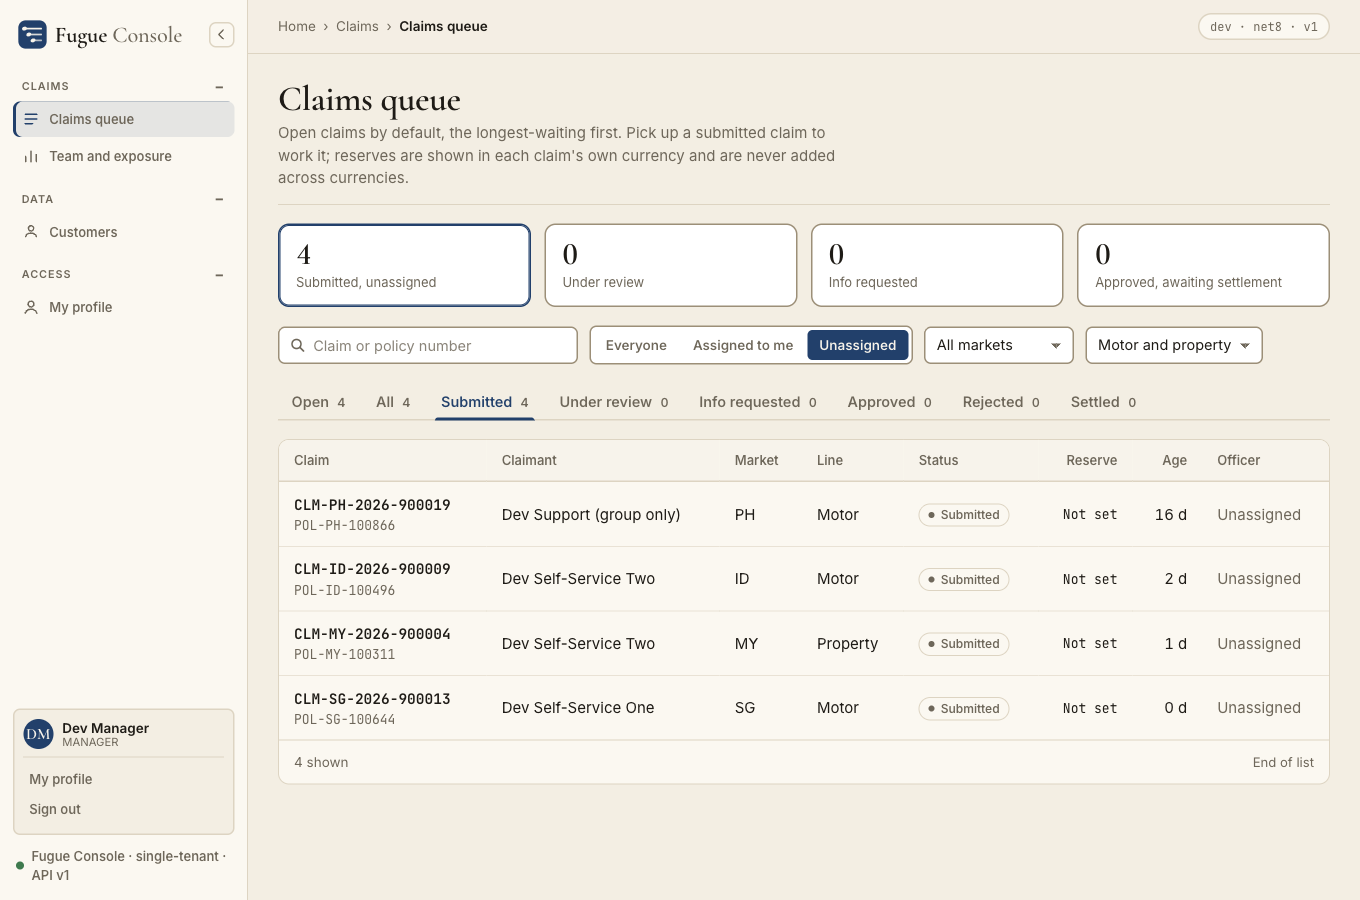
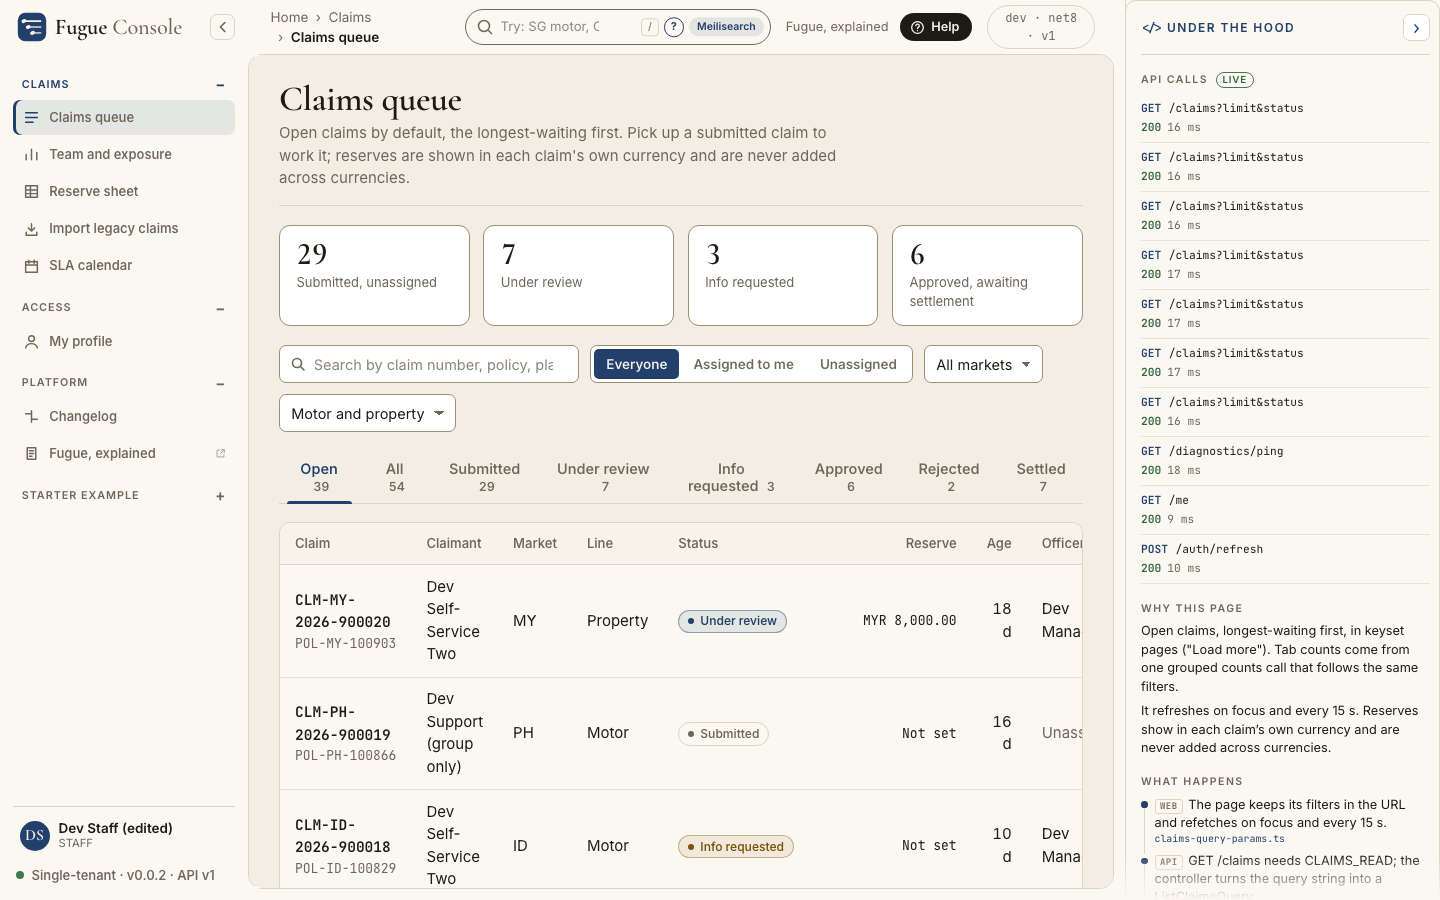
docs(readme): refresh counts, links and search wording from this lane's runs
Counts come from commands run in the lane: 858 xUnit listed, 37 arch, 388 console tests,
23 e2e listed, 127 Bruno requests. Search is keyword full-text, never hybrid. Links to
the explained page, changelog, DEMO, load testing and the legacy-sync design. Refreshed
five console screenshots headlessly against the demo stack.

Refs: D-064
Claude-Session: https://claude.ai/code/session_013M8hUMmzSgW53sxbR6rjBi

diff --git a/README.md b/README.md
@@ -6,7 +6,7 @@
 ![Angular 22](https://img.shields.io/badge/Angular-22-DD0031)
 ![PostgreSQL 17](https://img.shields.io/badge/PostgreSQL-17-336791)
 ![Docker Compose](https://img.shields.io/badge/Docker-Compose-2496ED)
-![Tests](https://img.shields.io/badge/xUnit-740%2B-brightgreen)
+![Tests](https://img.shields.io/badge/xUnit-858%20listed-brightgreen)
 ![Release](https://img.shields.io/badge/release-v0.0.2-blue)
 
 A claims platform for motor and property claims across six APAC markets (SG, MY, TH, HK, ID, PH): a .NET 8 API and one Angular console for claimants, claims officers, managers and admins. It is a take-home build, so it says plainly what it does and does not do.
@@ -48,9 +48,11 @@ Open **http://localhost:8080** (console). The API is on **:5081**, Swagger at `/
 | `self@fugue.test` | claimant | the claim that needs them ("We need one answer from you"); can answer it, report an incident, follow the claim |
 | `staff@fugue.test` | claims officer | My work: needs my action, pick up next, waiting on claimant; the claim record's next-step card; reserve sheet; SLA calendar |
 | `manager@fugue.test` | manager | To settle; Team and exposure per currency |
-| `admin@fugue.test` | admin | everything: users, the roles x permissions matrix, audit log with search, module toggles, webhooks |
+| `admin@fugue.test` | admin | everything: users (create and edit, edits guarded by If-Match), the roles x permissions matrix, audit log with search, module toggles, webhooks |
 
-**Fugue, explained:** a one-page illustrated tour of the system, readable offline in a browser: [`docs/explained/index.html`](docs/explained/index.html) (also served by the console at `/explained/`).
+**Fugue, explained:** a one-page illustrated tour of the system, readable offline in a browser: [`docs/explained/index.html`](docs/explained/index.html) (also served by the console at `/explained/`, and linked in its sidebar). The console's **Changelog** page shows the release history in the app; the file is [`CHANGELOG.md`](CHANGELOG.md).
+
+**Demo and load testing.** The presenter's walkthrough, including step 15 (the software factory, mapped to this repo), is [`docs/DEMO.md`](docs/DEMO.md). k6 smoke, load and stampede scripts with a before/after percentile comparison: [`docs/runbooks/load-testing.md`](docs/runbooks/load-testing.md). Not built, design only and parked: syncing with a legacy system, [`docs/design/legacy-sync.md`](docs/design/legacy-sync.md).
 
 Where things live: the migration catalog is [`docs/migrations/migration-catalog.md`](docs/migrations/migration-catalog.md), the release history is [`CHANGELOG.md`](CHANGELOG.md), and the step-by-step guide for a clean clone is [`docs/runbooks/00-for-reviewers.md`](docs/runbooks/00-for-reviewers.md). A curl walk-through of every guard (404, 409, 412, 428, the required Idempotency-Key) is [`docs/runbooks/11-claims.md`](docs/runbooks/11-claims.md).
 
@@ -116,7 +118,7 @@ flowchart TB
 - **Duplicate-proof submits.** `POST /claims` requires an `Idempotency-Key`; a retry replays the first response, and a reused key is 422.
 - **A transactional outbox.** State, timeline row, audit row and event commit together or not at all. Events leave through signed webhooks; a Kafka publisher is optional and off by default.
 - **An append-only audit trail.** Field-level diffs, failure rows for rejected commands, and no way to write to it through the API.
-- **Search that degrades honestly.** Meilisearch backs audit search and claim search (claim number, policy number, place, description, claimant name; typo tolerant). Claim search applies the caller's scope itself. When the engine is down the endpoint answers 503, not an empty list.
+- **Search that degrades honestly.** Keyword full-text search (Meilisearch: typo tolerance, synonyms, highlights) backs audit search and claim search (claim number, policy number, place, description, claimant name). It is keyword search, not semantic or vector search. Claim search applies the caller's scope itself. When the engine is down the endpoint answers 503, not an empty list.
 - **Excel in the console.** A reserve sheet and a claim assessment worksheet (Univer) with Save to Excel.
 - **An SLA calendar** (FullCalendar, lazy-loaded).
 - **Team and exposure, per currency.** Per officer: open load, oldest claim, decisions in 7 and 30 days, median days to decision. Exposure per market, line and currency; there is no grand total, because SGD plus IDR needs a rate and a rate date.
@@ -124,7 +126,7 @@ flowchart TB
 
 ### The console
 
-Screenshots below are captured by the Playwright suite (`cd web && npm run screenshots`).
+Screenshots below were captured headlessly (Playwright) against the running Docker stack as `staff@fugue.test` and `self@fugue.test`; the specs in `web/e2e/` write the same paths. The right-hand panel is the "Under the hood" sidebar, and the demo data carries edits made while testing.
 
 | Claims queue | Officer's claim record | Claimant's claim record |
 |---|---|---|
@@ -180,7 +182,8 @@ tests/
   pict/                 pairwise case models
 web/                    the Angular console (TanStack Query, NgRx SignalStore, generated client)
 bruno/fugue             HTTP regression collection (claims/ is the window's folder)
-perf/k6                 load scripts
+perf/k6                 k6 correctness-under-concurrency scripts (pickup race, idempotent submit)
+load/                   k6 latency scripts (smoke, load, stampede) and the percentile report
 scripts/                repo tooling and git-hook checks (scripts/spine/)
 docs/                   claims domain, architecture, ADRs, runbooks, decisions, journal
 ```
@@ -198,7 +201,7 @@ The dependency rule and the vertical slices are explained in [`docs/ARCHITECTURE
 | Validation and errors | FluentValidation, FluentResults | Typed errors become RFC 9457 problem details |
 | Persistence | EF Core (writes), Dapper (reads) | One transaction per command, ADR-006 |
 | Database | PostgreSQL 17 | `xmin` is the ETag |
-| Search | Meilisearch | Optional service; indexed from the append-only audit log and from claims |
+| Search | Meilisearch | Keyword full-text search (typo tolerance, synonyms, highlights). Optional service; indexed from the append-only audit log and from claims |
 | Events | Transactional outbox, signed webhooks | Kafka (Redpanda in compose) behind the `kafka` profile, off by default |
 | Console | Angular 22, TanStack Query, NgRx SignalStore | API client generated from the committed OpenAPI snapshot |
 | Tests | xUnit, Testcontainers, NetArchTest, Vitest, Playwright, Bruno | Details under Reference |
@@ -254,19 +257,19 @@ cd web && npm run e2e                                     # Playwright flows aga
 npm ci && (cd bruno/fugue && npx bru run --env compose)   # API regression suite against the Docker stack
 ```
 
-| Suite | Size (v0.0.2) | Runs against |
+| Suite | Count | Runs against |
 |---|---|---|
-| `Fugue.Tests` (xUnit) | about 740 cases | a real Postgres 17 (Testcontainers) or the full HTTP host, plus in-process tests of the state machine, validators and mapping |
-| `Fugue.ArchTests` (NetArchTest) | 37 fitness functions | layering, one-line controllers, every action declares a permission; baselines may only shrink |
-| Bruno | 101 requests, 123 tests (per CHANGELOG) | the Docker stack: every guard (404, 409, 412, 428, 422) over HTTP |
-| Console (Vitest) | roughly 200 tests; the exact count moves with each merge | `cd web && npm test` |
-| Console e2e (Playwright) | 20 flows in a browser, claimant to settlement | `web/e2e/` |
+| `Fugue.Tests` (xUnit) | 858 listed | a real Postgres 17 (Testcontainers) or the full HTTP host, plus in-process tests of the state machine, validators and mapping |
+| `Fugue.ArchTests` (NetArchTest) | 37 passed | layering, one-line controllers, every action declares a permission; baselines may only shrink |
+| Bruno | 127 requests; 148 of 153 tests passed in one run | `bru run --env local` against the demo stack on :8080: every guard (404, 409, 412, 428, 422) over HTTP. The 5 misses were demo-data state, not the code (a renamed officer, a webhook poll that had not settled) |
+| Console (Vitest) | 388 tests in 58 files, all passed | `cd web && npm test` |
+| Console e2e (Playwright) | 23 listed, in 9 files | `web/e2e/`, against the running stack |
 
-Counts drift as lanes merge; the totals at release are in [`CHANGELOG.md`](CHANGELOG.md).
+How these were counted: "listed" is `dotnet test --list-tests` and `npx playwright test --list`; "passed" is the real run. The last full-suite run recorded in git history is 858 passed for `Fugue.Tests` and 37 for `Fugue.ArchTests` (commit `97efc00`, the user-edit lane). Counts drift as work merges; the history is in [`CHANGELOG.md`](CHANGELOG.md).
 
 **Why this many, and why these.** The code was written mostly by AI agents, so the tests are the specification they cannot argue with: each pins an invariant of the domain ("a stale ETag is 412 and nothing is written", "outside your scope is 404, never 403", "exposure is never summed across currencies", "the audit log cannot be written through the API"). They are deterministic on purpose: a real database instead of mocks of it, time-dependent rules on a fake clock (`FakeTimeProvider`), waits that are bounded polls or timeouts and never sleep-then-assert. A red test therefore means the code drifted, not that the test flaked. The hooks run them before every push, so drift does not reach the remote.
 
-Also in the repo: Stryker.NET mutation runs (`npm run mutation:claim`), PICT pairwise models (`tests/pict/`), k6 load scripts (`npm run perf:queue`, `perf:submit`, `perf:race`). See [`docs/quality/README.md`](docs/quality/README.md) and [`perf/k6/README.md`](perf/k6/README.md).
+Also in the repo: Stryker.NET mutation runs (`npm run mutation:claim`), PICT pairwise models (`tests/pict/`), k6 scripts (`npm run perf:queue`, `perf:submit`, `perf:race`; latency runs in [`docs/runbooks/load-testing.md`](docs/runbooks/load-testing.md)). See [`docs/quality/README.md`](docs/quality/README.md) and [`perf/k6/README.md`](perf/k6/README.md).
 </details>
 
 <details>
@@ -327,7 +330,7 @@ The timed window starts at tag `claims-window-start` and ends at `claims-window-
 | Univer reserve sheet and assessment worksheet with Save to Excel; FullCalendar SLA calendar (bundle cost in `web/README.md`) | `web/src/app/features/claims/` |
 | Meilisearch audit search and claim search (optional service) | [runbook 06](docs/runbooks/06-audit.md) |
 | Kafka publisher behind the event port (optional compose profile) | [runbook 12](docs/runbooks/12-kafka.md), [ADR-011](docs/adr/ADR-011-outbox-and-signed-webhooks.md) |
-| Mutation testing (Stryker.NET), pairwise cases (PICT), k6 load scripts | [`docs/quality/`](docs/quality/README.md), `perf/k6/` |
+| Mutation testing (Stryker.NET), pairwise cases (PICT), k6 load scripts | [`docs/quality/`](docs/quality/README.md), `perf/k6/`, `load/` |
 | How the AI harness runs this repo | [`docs/ai/harness.md`](docs/ai/harness.md) |
 </details>
 
@@ -370,7 +373,9 @@ Optional Kafka: `EVENTS_PUBLISHER=Both docker compose --profile kafka up -d --bu
 | Scoping (404), If-Match (412, 428), Idempotency-Key (422) | Built, tested |
 | Outbox, signed webhooks, dev sink | Built, tested |
 | Kafka publisher | Built, optional, off by default |
-| Audit search and claim search (Meilisearch) | Built, optional service, 503 when down |
+| Audit search and claim search (keyword full-text, Meilisearch) | Built, optional service, 503 when down |
+| Edit users (`PUT /users/{id}`, If-Match) | Built, tested |
+| Legacy system sync | Design only, parked ([`docs/design/legacy-sync.md`](docs/design/legacy-sync.md)) |
 | Workload and exposure, per currency | Built, live SQL, refreshed every 15 s |
 | One-command Docker stack | Built (`./start.sh`) |
 | CI workflow (`.github/workflows/ci.yml`) | Written, not yet run on a real remote |

diff --git a/docs/ai/lanes/nth-readme2-status.md b/docs/ai/lanes/nth-readme2-status.md
@@ -16,3 +16,9 @@
 
 ## Next
 - slice (b): README refresh with counts from commands run in this lane.
+
+## Slice (b): README
+- Counts from this lane: `dotnet test --list-tests` Fugue.Tests 858, ArchTests 37 (run: `Passed! Failed: 0, Passed: 37`); web `npm test`: 58 files, 388 tests passed; `playwright test --list`: 23 tests in 9 files; Bruno on :8080 (second, spaced run): 127 requests (123 passed, 4 failed), tests 148/153 (first run was rate limited: 33 passed, 94 failed).
+- Bruno misses: webhooks 05 and 06 (sink poll pending), claims 07 and import 07 (demo officer was renamed "Dev Staff (edited)" by other work).
+- Screenshots refreshed headlessly on :8080 (5 of 6; `audit-diff.png` untouched, refreshed 12:24 today): 0 console errors.
+- HybridCache not on main at this point, so README does not mention it.
